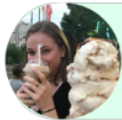
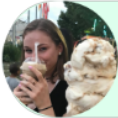
example profile css and refacotring

diff --git a/client/src/components/profile/ExampleProfile.js b/client/src/components/profile/ExampleProfile.js
@@ -5,29 +5,34 @@ import "./ExampleProfile.css";
 const ExampleProfile = ({ firstName }) => {
   return (
     <div>
-      <div className="outer">
-        {firstName === "max" ? (
+      {firstName === "max" ? (
+        <div className="outer">
           <img
             src={require("../../img/max_kim.png")}
             alt="Max Kim"
             className="circular-pic"
           />
-        ) : (
+
+          <div className="name">Max Kim</div>
+          <div className="about">
+            Max is the founder of a virtual reality gaming company and wants to
+            meet passionate entrepreneurs.
+          </div>
+        </div>
+      ) : (
+        <div className="outer">
           <img
             src={require("../../img/carina_lewis.png")}
             alt="Carina Lewis"
-            className="circular-pic"
+            className="circular-pic carina"
           />
-        )}
-        <div className="name">
-          {firstName === "max" ? "Max Kim" : "Carina Lewis"}
+          <div className="name carina">Carina Lewis</div>
+          <div className="about">
+            Carina is studying Philosophy and wants to meet people who are
+            interested in foreign policy and moral philosophy!
+          </div>
         </div>
-        <div className="about">
-          {firstName === "max"
-            ? "Max is the founder of a virtual reality gaming company and wants to meet passionate entrepreneurs."
-            : "Carina is studying Philosophy and wants to meet people who are interested in foreign policy and moral philosophy!"}
-        </div>
-      </div>
+      )}
     </div>
   );
 };

diff --git a/client/src/components/profile/ExampleProfile.css b/client/src/components/profile/ExampleProfile.css
@@ -9,16 +9,19 @@
 
 .name {
   position: relative;
-  top: -150px;
+  top: -161px;
   left: 210px;
   padding: 5px;
   padding-top: 10px;
   font-size: 24px;
 }
+.name.carina {
+  left: 188px;
+}
 
 .about {
   position: relative;
-  top: -155px;
+  top: -165px;
   left: 160px;
   text-align: center;
   width: 200px;
@@ -26,8 +29,13 @@
 
 .circular-pic {
   position: relative;
-  width: 150px;
-  height: 150px;
+  left: -9px;
+  top: -5px;
+  width: 160px;
+  height: 160px;
   background-color: blue;
   border-radius: 100px;
+}
+.circular-pic.carina {
+  left: -11px;
 }
